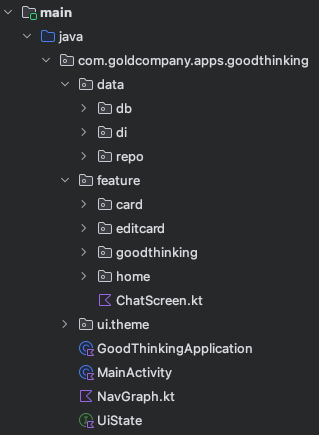
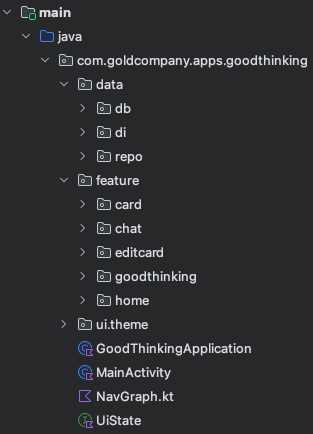
update readme

diff --git a/app/src/main/java/com/goldcompany/apps/goodthinking/feature/chat/ChatScreen.kt b/app/src/main/java/com/goldcompany/apps/goodthinking/feature/chat/ChatScreen.kt
@@ -1,0 +1,2 @@
+package com.goldcompany.apps.goodthinking.feature.chat
+
